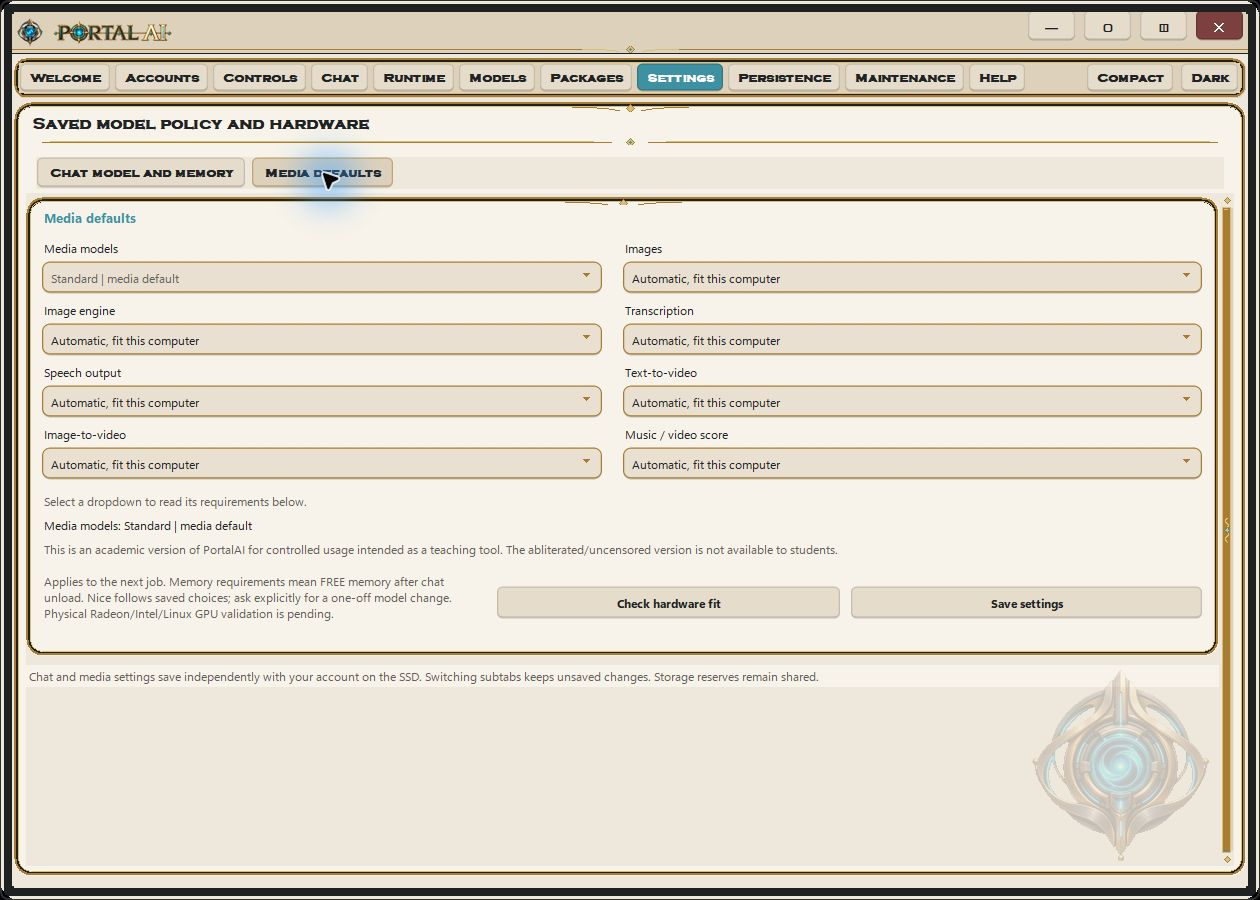
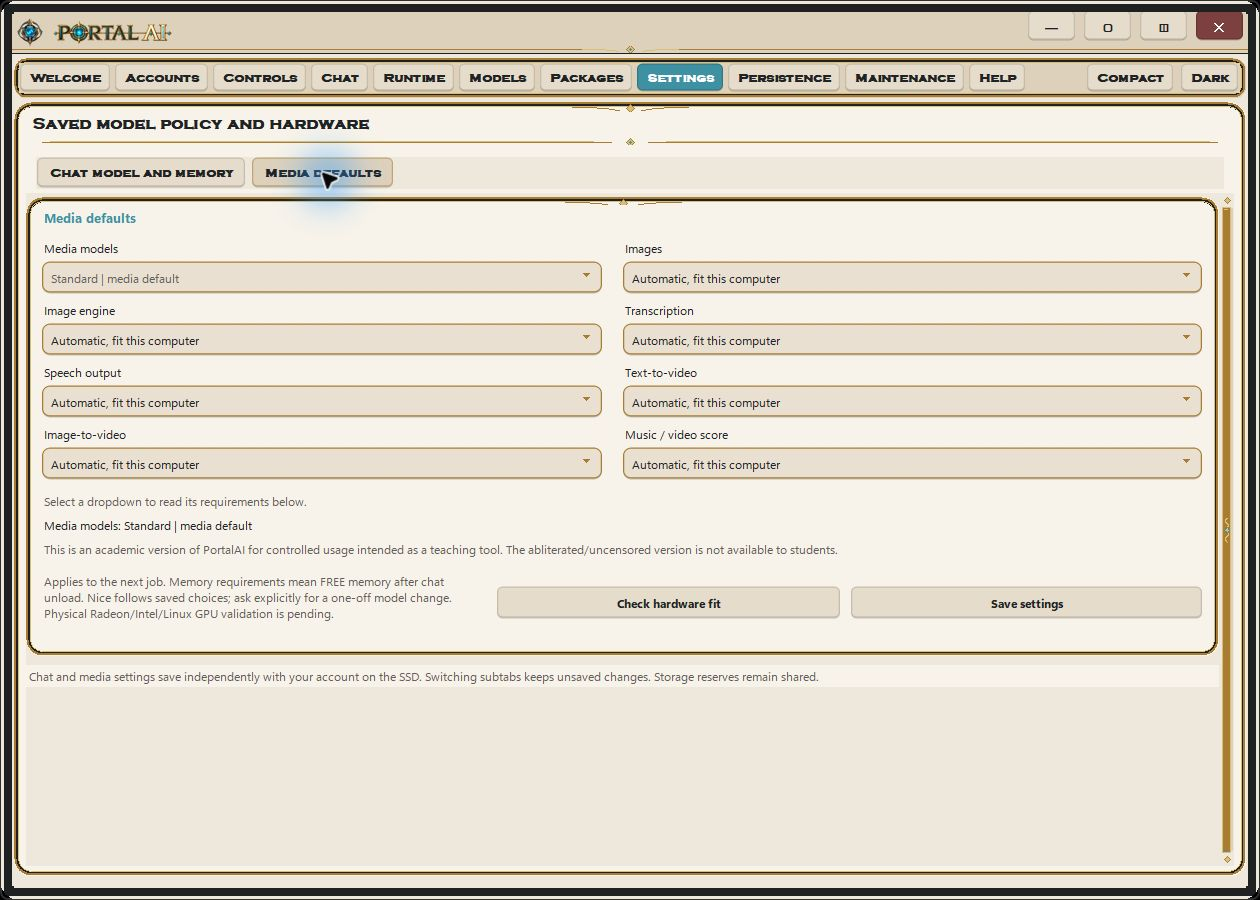
Align welcome documentation and refresh Academic r2 artwork

Changed region(s): [[0.8048, 0.7467, 0.9595, 0.9644], [0.2476, 0.1867, 0.2786, 0.2178]]

diff --git a/README.md b/README.md
@@ -11,14 +11,21 @@
 <p align="center"><strong>Local AI for guided learning and classroom exploration.</strong></p>
 
 <p align="center">
-  <a href="#download-an-installer">Download</a> &nbsp;·&nbsp;
+  <a href="#download-and-install">Download</a> &nbsp;·&nbsp;
   <a href="#a-look-inside">Interface gallery</a> &nbsp;·&nbsp;
+  <a href="#built-in-help-and-documentation">Help</a> &nbsp;·&nbsp;
   <a href="#projection-and-home-assistant">Projection / Home Assistant</a> &nbsp;·&nbsp;
-  <a href="Documentation/README.txt">Academic guide</a> &nbsp;·&nbsp;
-  <a href="#antivirus-and-the-llamacpp-server">Antivirus help</a>
+  <a href="#companion-utilities">Utilities</a> &nbsp;·&nbsp;
+  <a href="Documentation/README.md">Documentation</a>
 </p>
 
+**Welcome to PortalAI:** a portable workspace for local chat, tools, science, images, video, speech and music.
+
 > This is an academic version of PortalAI for controlled usage intended as a teaching tool. The abliterated/uncensored version is not available to students.
+
+The Academic edition keeps PortalAI's main interface and supported workflows, with standard/censored chat, vision and media enforced. Variant controls remain visible but inert, excluded model and LoRA assets are not downloaded, and an Academic instruction appendix is applied to the chat and mission harnesses.
+
+> **Platform testing disclaimer:** Only Windows has been thoroughly tested. Linux has received partial validation; macOS and other operating systems have not been thoroughly tested. Installation may fail or other errors may occur on these platforms. Please [report problems to the maintainer](https://github.com/Zhandragon/PortalAI-Academic/issues), including your operating system version and the error message. Packaging checks are not fresh end-to-end inference tests on all three operating systems.
 
 **PortalAI runs its AI locally on your computer.** Models, inference, supported tools, conversation history and account storage live on your own host and drive; core use requires no hosted AI service or cloud API key. After the required components are installed, supported local workflows can run offline. Installation and model downloads need internet access, and optional web tools and Home Assistant projection use the network you choose. Remote projection sends interface data through your Home Assistant connection while AI inference stays on the PortalAI host.
 
@@ -29,25 +36,35 @@
 - **Local accounts and encrypted user vaults.** Password-protected accounts use password-derived keys and authenticated encryption for stored profile keys and sealed user workspaces. Workspace files are decrypted while an account is in use; normal Exit seals them again. Guest is a shared/public workspace, and encryption is not isolation from the signed-in operating-system user.
 - **Context-aware help and a nonintrusive interface.** Right-click controls for relevant actions and built-in help. Switch between the full workspace and Compact chat, or keep PortalAI reachable through the Windows notification icon while the window is hidden.
 
-## Download an installer
+
+## Download and install
+
+<a id="download-an-installer"></a>
 
 Download **one file for your operating system**. The launcher downloads its required package parts from this repository, checks their sizes and SHA-256 hashes, reconstructs the full installer, and starts the Academic installation. You do not need to download or join parts yourself.
 
 | Operating system | Download | Open it |
 | --- | --- | --- |
 | Windows x64 | [Windows installer](https://raw.githubusercontent.com/Zhandragon/PortalAI-Academic/main/PortalAI-Academic-Windows-Setup.exe) | Open the `.exe`, choose the setup location, and click **Download and install**. Continue in the full installer window. |
-| macOS, Apple silicon / Intel | [Mac installer](https://raw.githubusercontent.com/Zhandragon/PortalAI-Academic/main/PortalAI-Academic-Mac-Setup.zip) | Extract the ZIP and open **PortalAI Academic Installer.app**. Terminal opens for setup. |
 | Linux x86-64 | [Linux installer](https://raw.githubusercontent.com/Zhandragon/PortalAI-Academic/main/PortalAI-Academic-Linux-Setup.sh) | Save the file, then run `bash PortalAI-Academic-Linux-Setup.sh` in its download folder. |
+| macOS, Apple silicon / Intel | [Mac installer](https://raw.githubusercontent.com/Zhandragon/PortalAI-Academic/main/PortalAI-Academic-Mac-Setup.zip) | Extract the ZIP and open **PortalAI Academic Installer.app**. Terminal opens for setup. |
 
 Use the download links above, or the file page's **Download raw file** button. You do not need **Code > Download ZIP**. Linux browsers generally do not preserve the executable bit, so running the file with Bash avoids that extra step.
 
-> **Documentation and help are already included in PortalAI.** Open the **Help** tab in the Control Center to browse topics by category or search the built-in documentation. Right-click controls for context-sensitive help, or choose **Documentation / Help** from the context menu. The included help is available offline after installation; no separate documentation download is needed.
+<a id="setup"></a>
+
+Choose a new setup folder on the drive where PortalAI should live. Windows installs under that folder's `installer/PortalAI Windows`; Linux and Mac install in `PortalAI Academic Linux` or `PortalAI Academic Mac` beneath the chosen setup folder. Existing application folders are not overwritten.
+
+The first stage downloads approximately 88 MB (Windows), 128 MB (Linux), or 102 MB (Mac). The full installers then fetch their pinned runtime/model dependencies; actual storage and download requirements are larger. Keep the setup folder on a drive with sufficient space. Verified downloads are reused if setup is run again.
+
+Windows needs .NET Framework 4.5 or later, included in Windows 10/11. Linux and Mac need Bash, curl, tar, and a SHA-256 utility, usually supplied by the operating system. No host Python installation is needed. The Mac installer retains its existing Xcode/Metal toolchain and CMake requirements. These installers are unsigned; macOS or Windows may require the normal user approval to open a downloaded application. Do not disable OS security protections.
+
+The original Academic restrictions and platform requirements are described in [the build documentation](Documentation/README.txt). These launchers reconstruct their pinned release archives byte-for-byte. They only automate download, verification, reconstruction, extraction and installer startup.
 
 ## A look inside
 
 **Welcome to PortalAI.** The Control Center brings navigation, chat, runtime information and settings into one interface.
 
-> **Platform testing disclaimer:** Only Windows has been thoroughly tested. Linux has received partial validation; macOS and other operating systems have not been thoroughly tested. Installation may fail or other errors may occur on these platforms. Please [report problems to the maintainer](https://github.com/Zhandragon/PortalAI-Academic/issues), including your operating system version and the error message.
 
 [![PortalAI welcome panel with the original gold wordmark, blue portal emblem and navigation tabs](Documentation/assets/welcome-panel.jpg)](Documentation/assets/welcome-panel.jpg)
 
@@ -69,13 +86,13 @@ Use the download links above, or the file page's **Download raw file** button. Y
 | --- | --- |
 | [![Minimize to tray with its focused Tray icon help menu](Documentation/assets/tray-controls.jpg)](Documentation/assets/tray-controls.jpg) | <a href="Documentation/assets/tray-menu.jpg"><img src="Documentation/assets/tray-menu.jpg" width="230" alt="PortalAI notification-icon menu with restore, navigation, help and lifecycle actions" /></a> |
 
-**Runtime and Packages.** Runtime brings CPU, RAM, GPU and VRAM activity, owned-process information and reported model stages into one read-only panel. Packages provides a searchable, paginated capability inventory and installation status. Academic restrictions still apply even when the diagnostic catalog mentions an unavailable component.
+**Runtime and Packages.** Runtime brings CPU, RAM, GPU and VRAM activity, owned-process information and reported model stages into one read-only panel. Packages provides a searchable, paginated capability inventory and installation status. Academic restrictions still apply even when the diagnostic catalog mentions an unavailable component. Intentionally omitted models are labeled **EXCLUDED**.
 
 | Runtime monitoring | Package inventory |
 | --- | --- |
 | [![Runtime panel with illustrative CPU, RAM, GPU and VRAM telemetry](Documentation/assets/runtime-panel.jpg)](Documentation/assets/runtime-panel.jpg) | [![Packages panel showing capability descriptions and installation status in the isolated preview](Documentation/assets/packages-panel.jpg)](Documentation/assets/packages-panel.jpg) |
 
-**Hardware scaling with manual control.** Automatic selection fits eligible installed models to available RAM/VRAM and selects a compatible backend. Settings also lets you choose a model, backend, context limit and supported media defaults explicitly. **Check hardware fit** previews the choice; **Save settings** saves that section, and **Controls > Startup** applies chat choices when active work permits. A manual choice remains selected across effort changes, but still must pass hardware and memory admission checks. The Academic variant remains fixed to standard.
+**Hardware scaling with manual control.** Automatic selection fits eligible installed models to available RAM/VRAM and selects a compatible backend. Settings also lets you choose a model, backend, context limit and supported media defaults explicitly. **Check hardware fit** previews the choice. Manual overrides still have to pass hardware and memory admission checks. Backend, context and media changes use **Save settings**; **Controls > Startup** applies chat settings when active work permits. The Academic chat, vision and media variant remains fixed to standard.
 
 | Chat model and memory | Media defaults |
 | --- | --- |
@@ -83,6 +100,12 @@ Use the download links above, or the file page's **Download raw file** button. Y
 | Choose model, memory and backend preferences while the Academic variant stays fixed to standard. | Review the defaults for supported media workflows and their hardware requirements. |
 
 <sub>Windows screenshots of the Academic build's real widgets in Light mode, captured in an isolated preview. Chat and Runtime telemetry are illustrative; package status reflects the preview's incomplete runtime inventory. The original tray menu is opened by a capture-only shortcut. Available workflows depend on the operating system and installed components. Click a panel to view it at full size. See the <a href="Documentation/assets/README.md">artwork notes</a> for capture details.</sub>
+
+## Built-in help and documentation
+
+**Documentation and help are already included in PortalAI.** Open the **Help** tab in the Control Center to browse topics by category or search the built-in documentation. Right-click controls for context-sensitive help, or choose **Documentation / Help** from the context menu. The included help is available offline after installation; no separate documentation download is needed.
+
+The [documentation index](Documentation/README.md) links installation, Projection, release validation and artwork notes. When reporting a problem to the maintainer, include the operating system version, installer/release version and exact error text; leave out passwords, tokens and private account or connection files.
 
 ## Projection and Home Assistant
 
@@ -104,23 +127,28 @@ Each download reconstructs and verifies its complete portable companion, bundled
 
 See the [complete Projection and Home Assistant guide](Documentation/PROJECTION.md) for Windows/Linux installation, HTTPS link requirements, pairing, troubleshooting and the difference between stopping projection and signing out. For installation directly on a trusted HA device, the [matching HA integration ZIP](https://raw.githubusercontent.com/Zhandragon/PortalAI-Academic/main/Utilities/Projection/PortalAI-HomeAssistant-0.5.11-recovery-0.1.0.zip) is also available separately.
 
-## Setup
+## Companion utilities
 
-Choose a new setup folder on the drive where PortalAI should live. Windows installs under that folder's `installer/PortalAI Windows`; Linux and Mac install in `PortalAI Academic Linux` or `PortalAI Academic Mac` beneath the chosen setup folder. Existing application folders are not overwritten.
+| Utility | Downloads and purpose |
+| --- | --- |
+| PortalAI Projection | Windows and Linux companions for viewing and controlling PortalAI through Home Assistant. [Downloads and connection steps](#projection-and-home-assistant). **macOS Projection is not supported yet.** |
+| Home Assistant integration | Matching **Home Assistant 0.5.11 + Recovery 0.1.0** receiver/frontend bundle, included with Projection and [available separately](https://raw.githubusercontent.com/Zhandragon/PortalAI-Academic/main/Utilities/Projection/PortalAI-HomeAssistant-0.5.11-recovery-0.1.0.zip). |
 
-The first stage downloads approximately 88 MB (Windows), 128 MB (Linux), or 102 MB (Mac). The full installers then fetch their pinned runtime/model dependencies; actual storage and download requirements are larger. Keep the setup folder on a drive with sufficient space. Verified downloads are reused if setup is run again.
+Portable Abliterator and the excluded uncensored model assets are not part of the Academic distribution. Use the supported components supplied for your operating system.
 
-Windows needs .NET Framework 4.5 or later, included in Windows 10/11. Linux and Mac need Bash, curl, tar, and a SHA-256 utility, usually supplied by the operating system. No host Python installation is needed. The Mac installer retains its existing Xcode/Metal toolchain and CMake requirements. These installers are unsigned; macOS or Windows may require the normal user approval to open a downloaded application. Do not disable OS security protections.
+## Privacy and local accounts
 
-The original Academic restrictions and platform requirements are described in [the build documentation](Documentation/README.txt). These launchers reconstruct their pinned release archives byte-for-byte. They only automate download, verification, reconstruction, extraction and installer startup.
+This repository provides the public Academic installer distribution. Recipients create their own PortalAI accounts and Projection pairings; the download is not a copy of the maintainer's active personal workspace.
+
+Password-protected accounts encrypt stored user vaults. Files are decrypted while that account is in use and sealed on normal **Exit PortalAI**. **Minimize to tray** and **Stop projection** do not sign out or seal the workspace. Guest is shared, and unlocked data remains accessible to software with the same operating-system access. Keep the host and drive available until shutdown completes.
 
 ## Antivirus and the llama.cpp server
 
-Antivirus software may flag or quarantine PortalAI's llama.cpp local model server (`llama-server.exe` on Windows) or its supporting libraries. This can prevent chat models from starting or cause local server connection errors. False positives have been reported for [upstream llama.cpp Windows builds](https://github.com/ggml-org/llama.cpp/issues/15874).
+Antivirus software may flag or quarantine PortalAI's llama.cpp local model server (`llama-server.exe` on Windows), its supporting libraries, bundled runtimes or the unsigned launcher. This can prevent chat models or workflows from starting and cause local server connection errors. A detection is not by itself proof of either malware or a false positive.
 
-If this happens, check your antivirus protection history for the blocked file's path and detection name. Ask your instructor or IT administrator to review the alert and verify the file's source and expected checksum before restoring it or approving a specific file exception. Do not disable antivirus protection or exclude the entire PortalAI folder; an alert should be reviewed before treating it as a false positive.
+Check the blocked file's path and detection name, verify its source and expected SHA-256 checksum, and review the alert before restoring it or approving a specific file exception. Students should ask their instructor or IT administrator to review the alert. Do not disable antivirus globally or exclude the entire PortalAI folder. Include the antivirus product and detection name in a report to the maintainer, without submitting private data.
 
-## Repository contents
+## Source, licensing and verification
 
 - The three setup downloads and their checksums are at the repository root.
 - `packages/20261020-r2/` contains the verified package parts, grouped by operating system. The launchers download these automatically.
@@ -129,8 +157,6 @@ If this happens, check your antivirus protection history for the blocked file's 
 - `Utilities/Projection/` contains the optional Windows/Linux Projection downloads, verified package parts, matching Home Assistant integration and source. **No macOS Projection package is available yet.**
 
 Maintainers can follow [the publishing guide](Documentation/PUBLISHING.md) to update this repository. Students only need the download for their operating system above.
-
-## Build and verification
 
 `PACKAGING.json` records the pinned part, reconstructed archive and extracted installer hashes. `SHA256SUMS` covers the published files. The launchers embed the expected hashes and do not trust a downloaded manifest to decide what code to run.
 
@@ -142,7 +168,11 @@ python -B bootstrap-source/build.py
 
 The native installer template is compatible with macOS Bash 3.2. `--prepare-only` plus a target directory allows download/extraction verification without starting an installation. See `bootstrap-source/VALIDATION.txt` for validation scope and commands.
 
-## Academic maintenance release r2
+PortalAI's existing [license](LICENSE) is retained. Third-party runtime and model licenses remain separate and travel with the relevant packages; this distribution does not replace their terms.
+
+## Release notes
+
+<a id="academic-maintenance-release-r2"></a>
 
 The current installers label intentionally omitted models **EXCLUDED** rather than leaving their package rows checking indefinitely. Tool discovery, mission instructions and settings help now consistently describe standard-only routing. Workflow admission checks nested/multiple model and LoRA loader fields, including encoded names; installer/import guards also reject known excluded asset hashes even when their labels are changed. Ordinary prompt prose is not treated as an asset filename.
 

diff --git a/Documentation/INSTALLATION.md b/Documentation/INSTALLATION.md
@@ -1,0 +1,35 @@
+# Installing PortalAI (Academic)
+
+[Documentation index](README.md) · [Current installer downloads](../README.md#download-and-install)
+
+## Download and launch
+
+Download **one file for your operating system**. The launcher downloads its required package parts from this repository, checks their sizes and SHA-256 hashes, reconstructs the full installer, and starts the Academic installation. You do not need to download or join parts yourself.
+
+| Operating system | Download | Open it |
+| --- | --- | --- |
+| Windows x64 | [Windows installer](https://raw.githubusercontent.com/Zhandragon/PortalAI-Academic/main/PortalAI-Academic-Windows-Setup.exe) | Open the `.exe`, choose the setup location, and click **Download and install**. Continue in the full installer window. |
+| Linux x86-64 | [Linux installer](https://raw.githubusercontent.com/Zhandragon/PortalAI-Academic/main/PortalAI-Academic-Linux-Setup.sh) | Save the file, then run `bash PortalAI-Academic-Linux-Setup.sh` in its download folder. |
+| macOS, Apple silicon / Intel | [Mac installer](https://raw.githubusercontent.com/Zhandragon/PortalAI-Academic/main/PortalAI-Academic-Mac-Setup.zip) | Extract the ZIP and open **PortalAI Academic Installer.app**. Terminal opens for setup. |
+
+Use the download links above, or the file page's **Download raw file** button. You do not need **Code > Download ZIP**. Linux browsers generally do not preserve the executable bit, so running the file with Bash avoids that extra step.
+
+## Destination, space and prerequisites
+
+Choose a new setup folder on the drive where PortalAI should live. Windows installs under that folder's `installer/PortalAI Windows`; Linux and Mac install in `PortalAI Academic Linux` or `PortalAI Academic Mac` beneath the chosen setup folder. Existing application folders are not overwritten.
+
+The first stage downloads approximately 88 MB (Windows), 128 MB (Linux), or 102 MB (Mac). The full installers then fetch their pinned runtime/model dependencies; actual storage and download requirements are larger. Keep the setup folder on a drive with sufficient space. Verified downloads are reused if setup is run again.
+
+Windows needs .NET Framework 4.5 or later, included in Windows 10/11. Linux and Mac need Bash, curl, tar, and a SHA-256 utility, usually supplied by the operating system. No host Python installation is needed. The Mac installer retains its existing Xcode/Metal toolchain and CMake requirements. These installers are unsigned; macOS or Windows may require the normal user approval to open a downloaded application. Do not disable OS security protections.
+
+The original Academic restrictions and platform requirements are described in [the build documentation](README.txt). These launchers reconstruct their pinned release archives byte-for-byte. They only automate download, verification, reconstruction, extraction and installer startup.
+
+## Edition behavior
+
+The installer fetches the standard Qwen 1.7B chat model. Windows offers larger standard chat/vision and media components; native installers retain their platform-specific scope. Academic enforces standard/censored chat, vision and media. Abliterated/uncensored models, anatomical LoRAs and Portable Abliterator are excluded. Visible variant controls are inert, and their context help explains the edition.
+
+The current r2 installers label intentionally omitted assets EXCLUDED. Missing required standard dependencies, unsupported platforms and insufficient memory can still prevent a workflow from running. See the [release notes](../README.md#release-notes) and [validation record](VALIDATION.json).
+
+## Accounts and support
+
+Create your own account after installation. Help and searchable documentation are available in PortalAI itself. Only Windows has been thoroughly tested; Linux has partial validation and physical macOS installation remains unvalidated. Report errors to the [maintainer](https://github.com/Zhandragon/PortalAI-Academic/issues), including OS and installer versions and error text without passwords, tokens or private content. **macOS Projection is not supported yet.**

diff --git a/Documentation/README.md b/Documentation/README.md
@@ -1,0 +1,20 @@
+# PortalAI (Academic) documentation
+
+[Welcome page and gallery](../README.md) · [Download and install](../README.md#download-and-install)
+
+Documentation and help are already inside PortalAI. Open **Help** to browse or search offline topics, and right-click controls for context-aware guidance. These repository guides focus on distribution, installation and connecting optional companions.
+
+| Topic | Guide |
+| --- | --- |
+| Install and launch | [Installation and platform requirements](INSTALLATION.md) |
+| Home Assistant link, pairing and projection | [Projection guide](PROJECTION.md) |
+| Interface and hardware controls | [Gallery and settings overview](../README.md#a-look-inside) |
+| Local accounts and encryption | [Privacy and local accounts](../README.md#privacy-and-local-accounts) |
+| Antivirus detections | [llama.cpp and antivirus help](../README.md#antivirus-and-the-llamacpp-server) |
+| Companion downloads | [Utilities](../README.md#companion-utilities) |
+| Build provenance and verification | [Academic build notes](README.txt), [current validation](VALIDATION.json), [publishing guide](PUBLISHING.md) |
+| Screenshot provenance | [Artwork notes](assets/README.md) |
+
+Academic enforces standard/censored routing and excludes abliterated/uncensored assets. Its visible variant controls do not unlock those assets.
+
+Only Windows has been thoroughly tested; Linux has partial validation. macOS installation and other configurations may encounter errors. **macOS Projection is not supported yet.** Use the matching repository's issue tracker linked on the welcome page, and omit secrets and private user files from reports.

diff --git a/Documentation/assets/README.md b/Documentation/assets/README.md
@@ -27,4 +27,4 @@ These are screenshots of real widgets, not generated interface mockups. The orig
 
 The additional Runtime, Packages, context-help and tray captures retain the same Light palette, decorative borders and black backdrop. The capture harness enables the real Windows notification-icon thread and a limited event pump while leaving model workers, account access and networking disabled. A capture-only F8 shortcut invokes the unmodified notification-menu function at a clear position, so the published image contains no unrelated tray icons. F8 is not advertised as a product shortcut. The tray menu image is a direct bounded capture of that menu, not a composite. Runtime chart values are illustrative, not measured performance; package status is not a claim that the full installation is missing those dependencies.
 
-The gallery captures predate the Academic r2 package-status correction. Current installers display EXCLUDED for intentionally omitted alternate models rather than the older preview's CHECKING rows.
+The welcome, chat-model settings, media settings, context-help and Packages images were refreshed from the current Academic r2 payload. Intentionally omitted models now display EXCLUDED. The other captures retain the same unchanged Academic interface from r1. The refreshed welcome panel uses the sample installation label `X:\PortalAI` instead of the capture machine's local path.

diff --git a/Documentation/PROJECTION.md b/Documentation/PROJECTION.md
@@ -1,5 +1,7 @@
 # PortalAI Projection and Home Assistant
 
+[Documentation index](README.md) · [Downloads and overview](../README.md#projection-and-home-assistant)
+
 Projection is an optional portable companion to the PortalAI application. It connects the real running interface to your Home Assistant (HA) dashboard and Companion App over an outbound, verified HTTPS connection. Models still run on the PortalAI host. This remote feature sends interface state, screen frames and control requests through HA; it is not an offline-only workflow.
 
 **macOS Projection is not supported yet.** Install the companion for the computer running PortalAI, not the phone, tablet or computer used to view Home Assistant.
